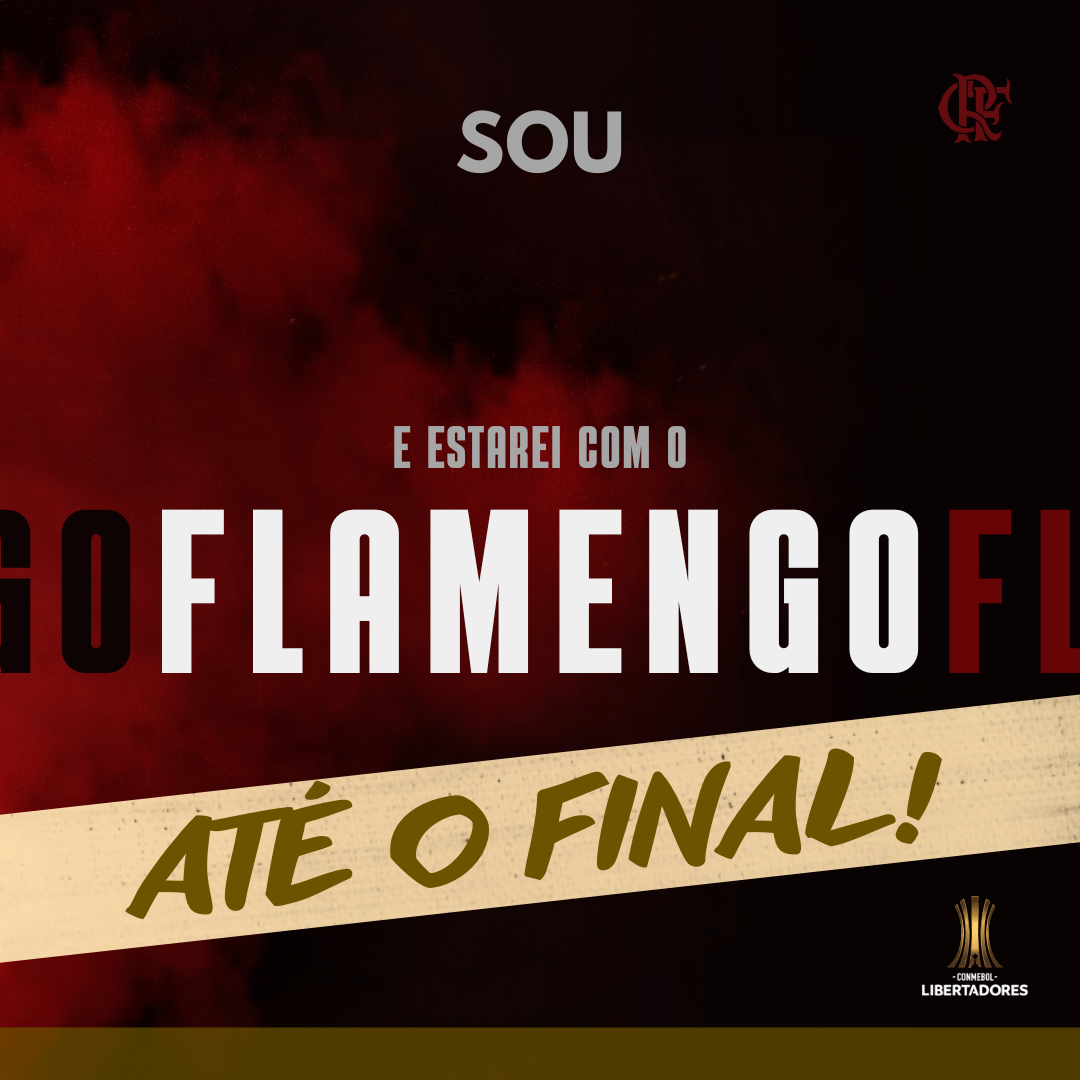
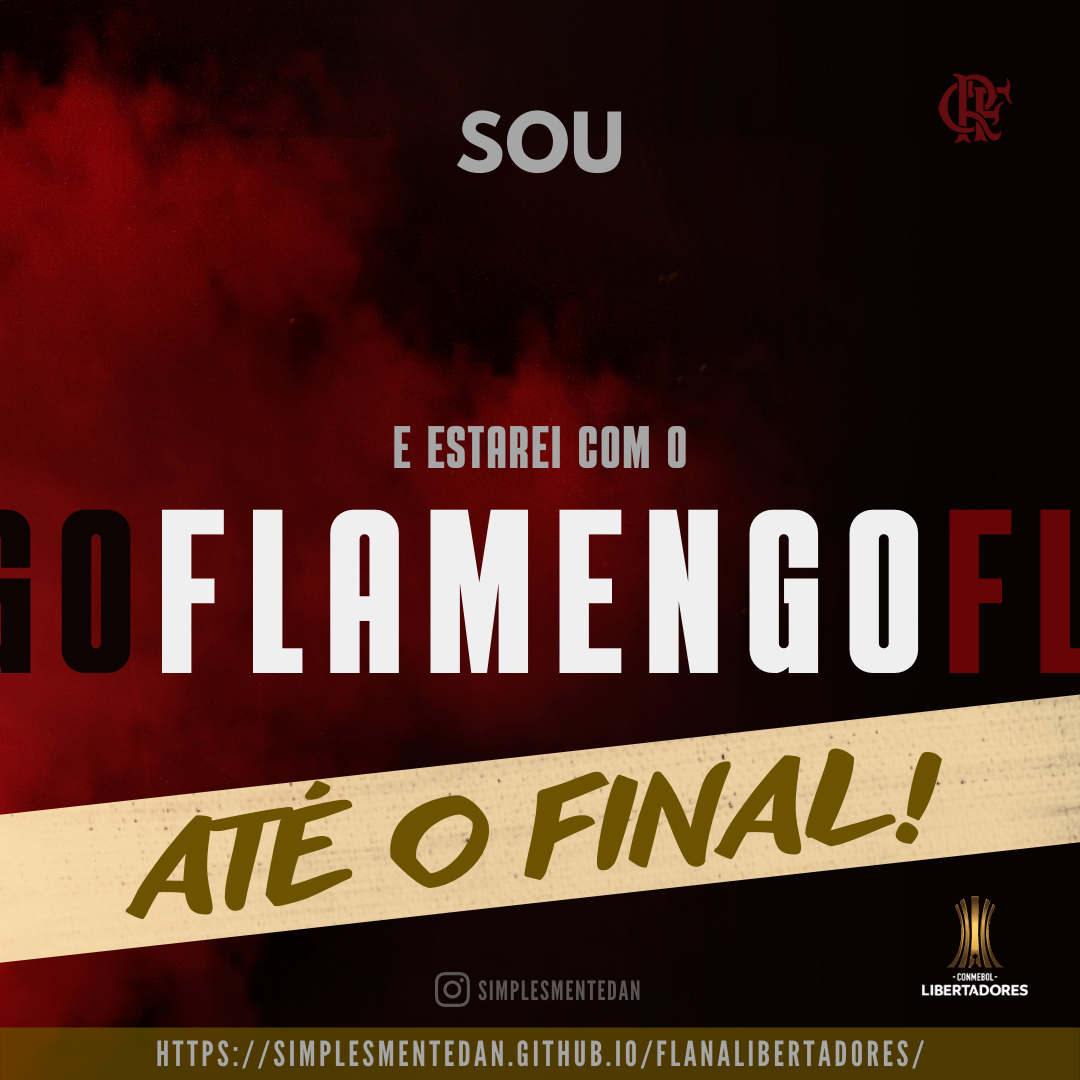
fix: Alter image, links and adds new base.

Changed region(s): [[0.1528, 0.8861, 0.8556, 1.0]]

diff --git a/index.html b/index.html
@@ -19,7 +19,7 @@
     <meta property="og:type" content="website" />
     <meta
       property="og:url"
-      content="https://alvaroreis.github.io/bolsonaro2turno/"
+      content="https://simplesmentedan.github.io/flanalibertadores/"
     />
     <meta
       property="og:title"
@@ -32,14 +32,14 @@
     <meta
       property="og:image"
       itemprop="image"
-      content="https://alvaroreis.github.io/bolsonaro2turno/metadata.png"
+      content="https://simplesmentedan.github.io/flanalibertadores/metadata.png"
     />
 
     <!-- Twitter -->
     <meta property="twitter:card" content="summary_large_image" />
     <meta
       property="twitter:url"
-      content="https://alvaroreis.github.io/bolsonaro2turno/"
+      content="https://simplesmentedan.github.io/flanalibertadores/"
     />
     <meta
       property="twitter:title"
@@ -51,7 +51,7 @@
     />
     <meta
       property="twitter:image"
-      content="https://alvaroreis.github.io/bolsonaro2turno/metadata.png"
+      content="https://simplesmentedan.github.io/flanalibertadores/metadata.png"
     />
 
     <meta charset="UTF-8" />
@@ -128,36 +128,38 @@
         <div class="row d-none d-md-inline-flex w-100">
           <div class="col-md-4">
             <p class="text-start">
-              <img src="img/github.png" height="20" />
-              <a
-                href="https://github.com/alvaroreis/bolsonaro2turno"
-                target="_blank"
-                class="text-white"
-              >
-                Repositório
-              </a>
-            </p>
-          </div>
-          <div class="col-md-3">
-            <p class="text-center">
-              <img src="./img/instagram.png" height="20" alt="Instagram" />
-              <a
-                href="https://www.instagram.com/_alvaroreis/"
-                target="_blank"
-                class="text-white"
-                >Álvaro Barros</a
-              >
-            </p>
-          </div>
-          <div class="col-md-5">
-            <p class="text-end">
-              Desenvolvido por
+              <img src="./img/github.png" height="20" alt="Github" />
               <a
                 href="https://github.com/simplesmentedan"
                 target="_blank"
                 class="text-white"
                 >simplesmentedan</a
               >
+            </p>
+          </div>
+
+          <div class="col-md-3">
+            <p class="text-center">
+              <img src="./img/instagram.png" height="20" alt="Instagram" />
+              <a
+                href="https://www.instagram.com/_simplesmentedan/"
+                target="_blank"
+                class="text-white"
+                >simplesmentedan</a
+              >
+            </p>
+          </div>
+
+          <div class="col-md-5">
+            <p class="text-end">
+              <img src="img/linkedin.png" height="20" alt="LinkedIn" />
+              <a
+                href="https://www.linkedin.com/in/simplesmentedan/"
+                target="_blank"
+                class="text-white"
+              >
+                simplesmentedan
+              </a>
             </p>
           </div>
         </div>
@@ -166,21 +168,21 @@
           <div class="col-sm-12 d-sm-inline-flex text-center">
             <div class="col-sm-6">
               <p>
-                <img src="img/github.png" height="20" />
+                <img src="./img/github.png" height="20" alt="Github" />
                 <a
-                  href="https://github.com/alvaroreis/bolsonaro2turno"
+                  href="https://github.com/simplesmentedan"
                   target="_blank"
                   class="text-white"
+                  >simplesmentedan</a
                 >
-                  Repositório
-                </a>
               </p>
             </div>
+
             <div class="col-sm-6">
               <p>
                 <img src="./img/instagram.png" height="20" alt="Instagram" />
                 <a
-                  href="https://www.instagram.com/_alvaroreis/"
+                  href="https://www.instagram.com/_simplesmentedan/"
                   target="_blank"
                   class="text-white"
                   >Álvaro Barros</a
@@ -188,15 +190,17 @@
               </p>
             </div>
           </div>
+
           <div class="col-sm-12">
             <p>
-              Desenvolvido por
+              <img src="img/linkedin.png" height="20" alt="LinkedIn" />
               <a
-                href="https://github.com/simplesmentedan"
+                href="https://www.linkedin.com/in/simplesmentedan/"
                 target="_blank"
                 class="text-white"
-                >simplesmentedan</a
               >
+                simplesmentedan
+              </a>
             </p>
           </div>
         </div>
